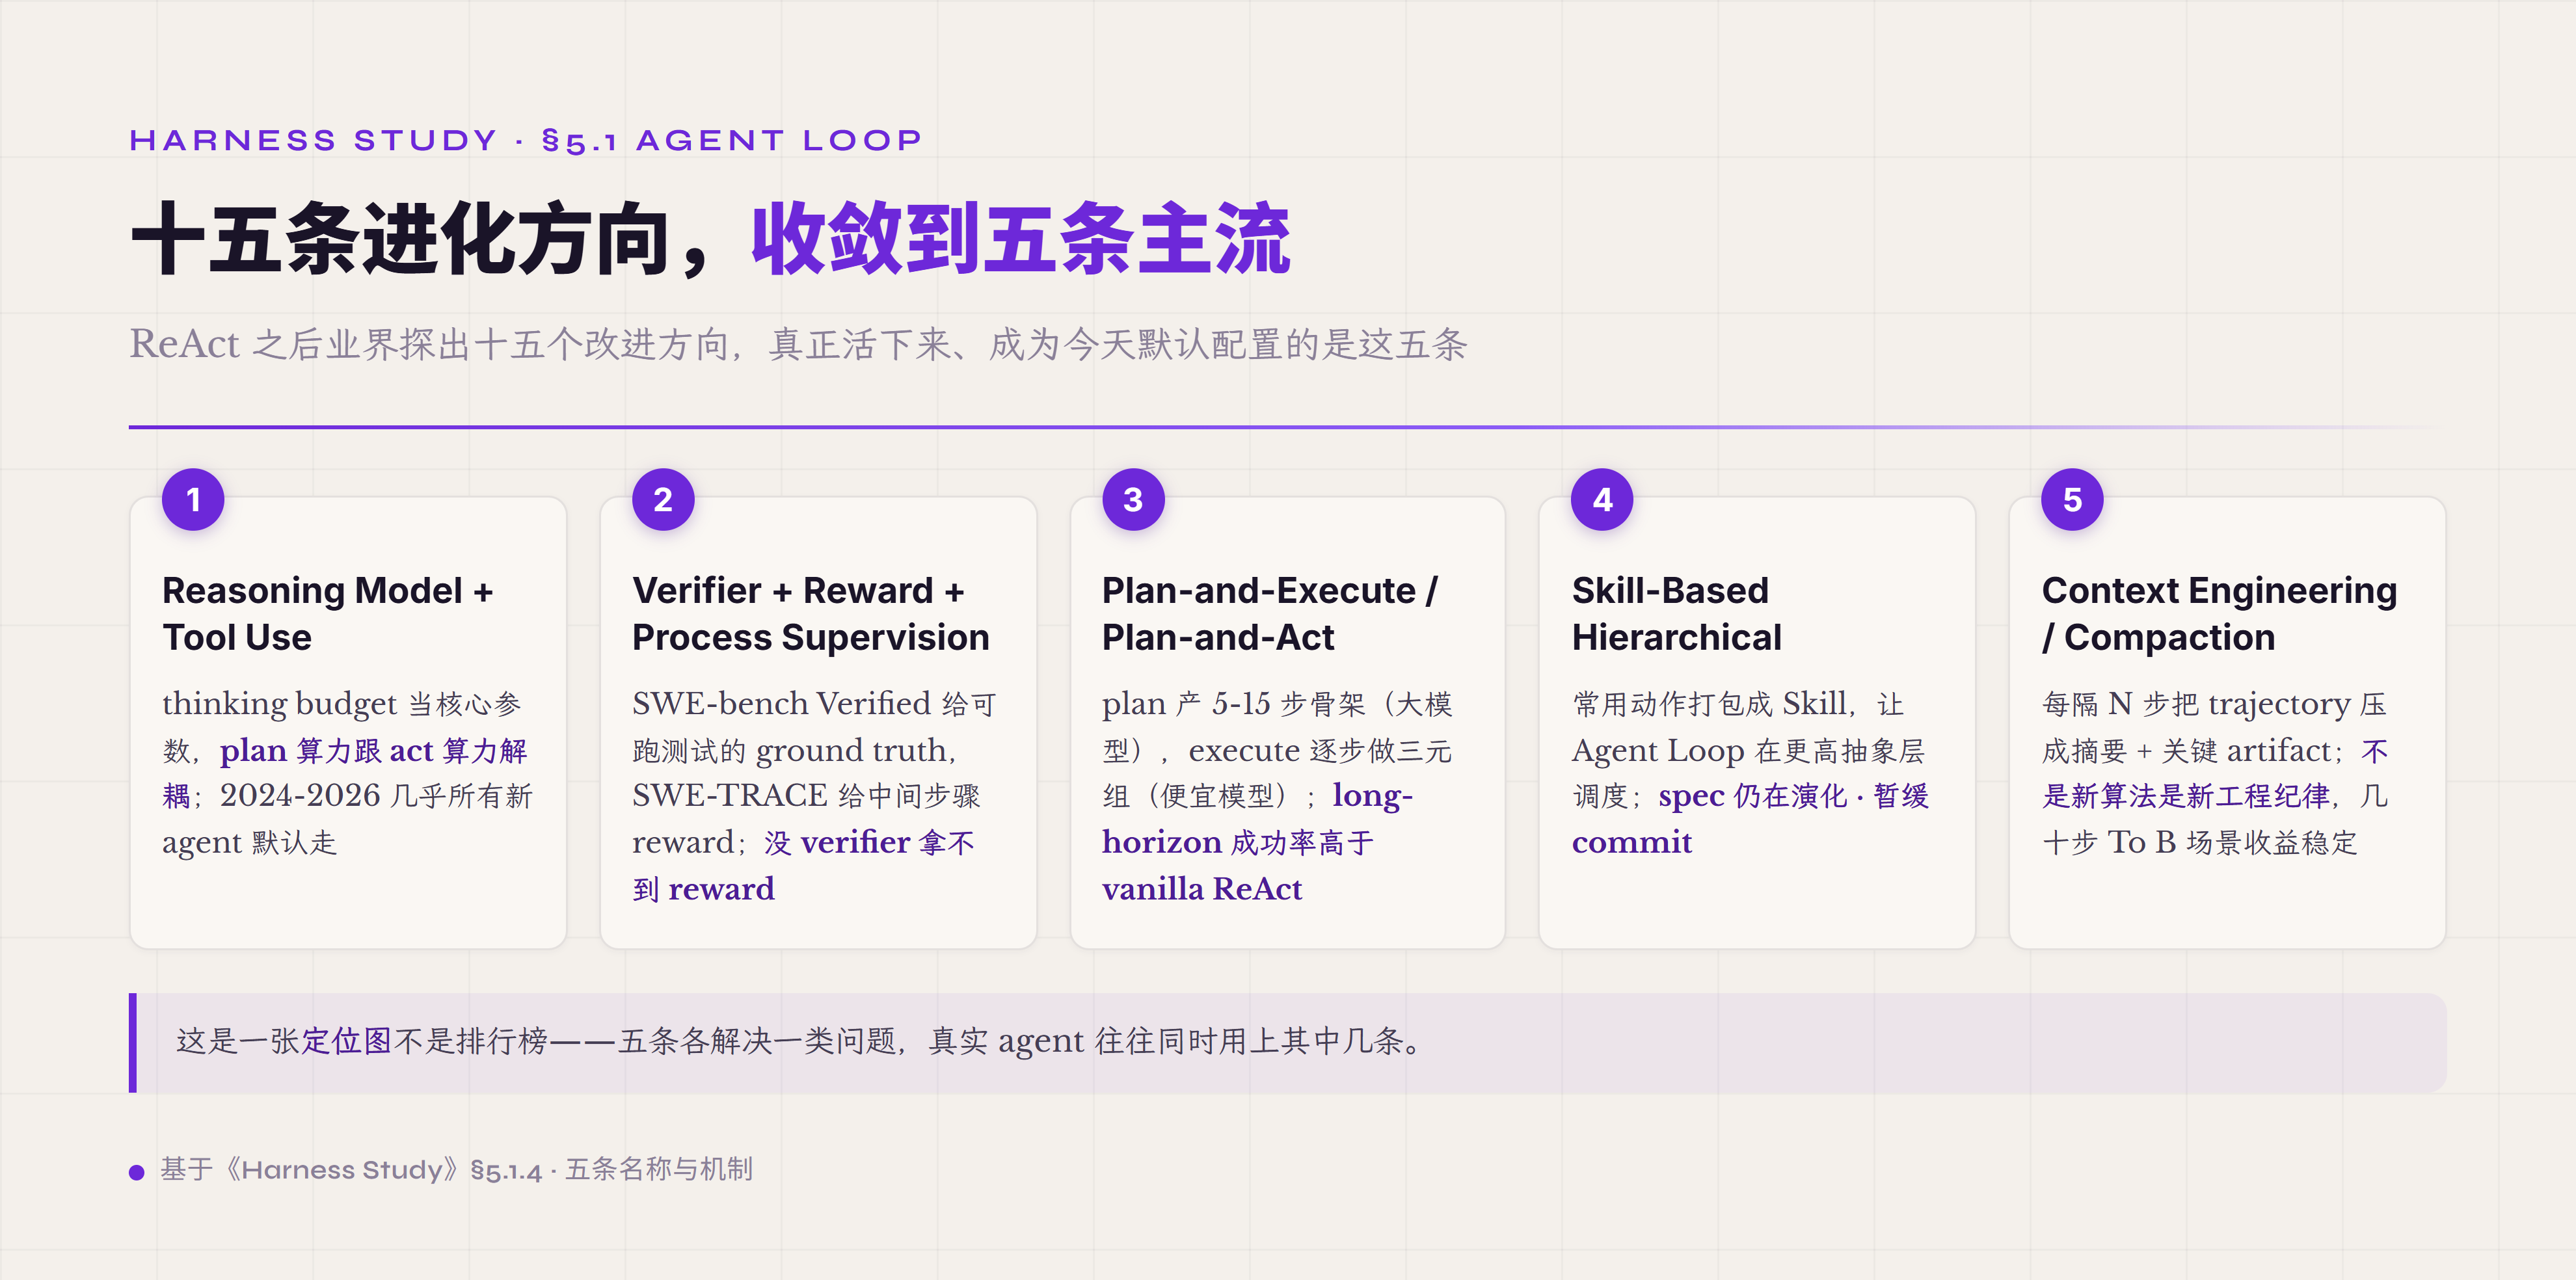
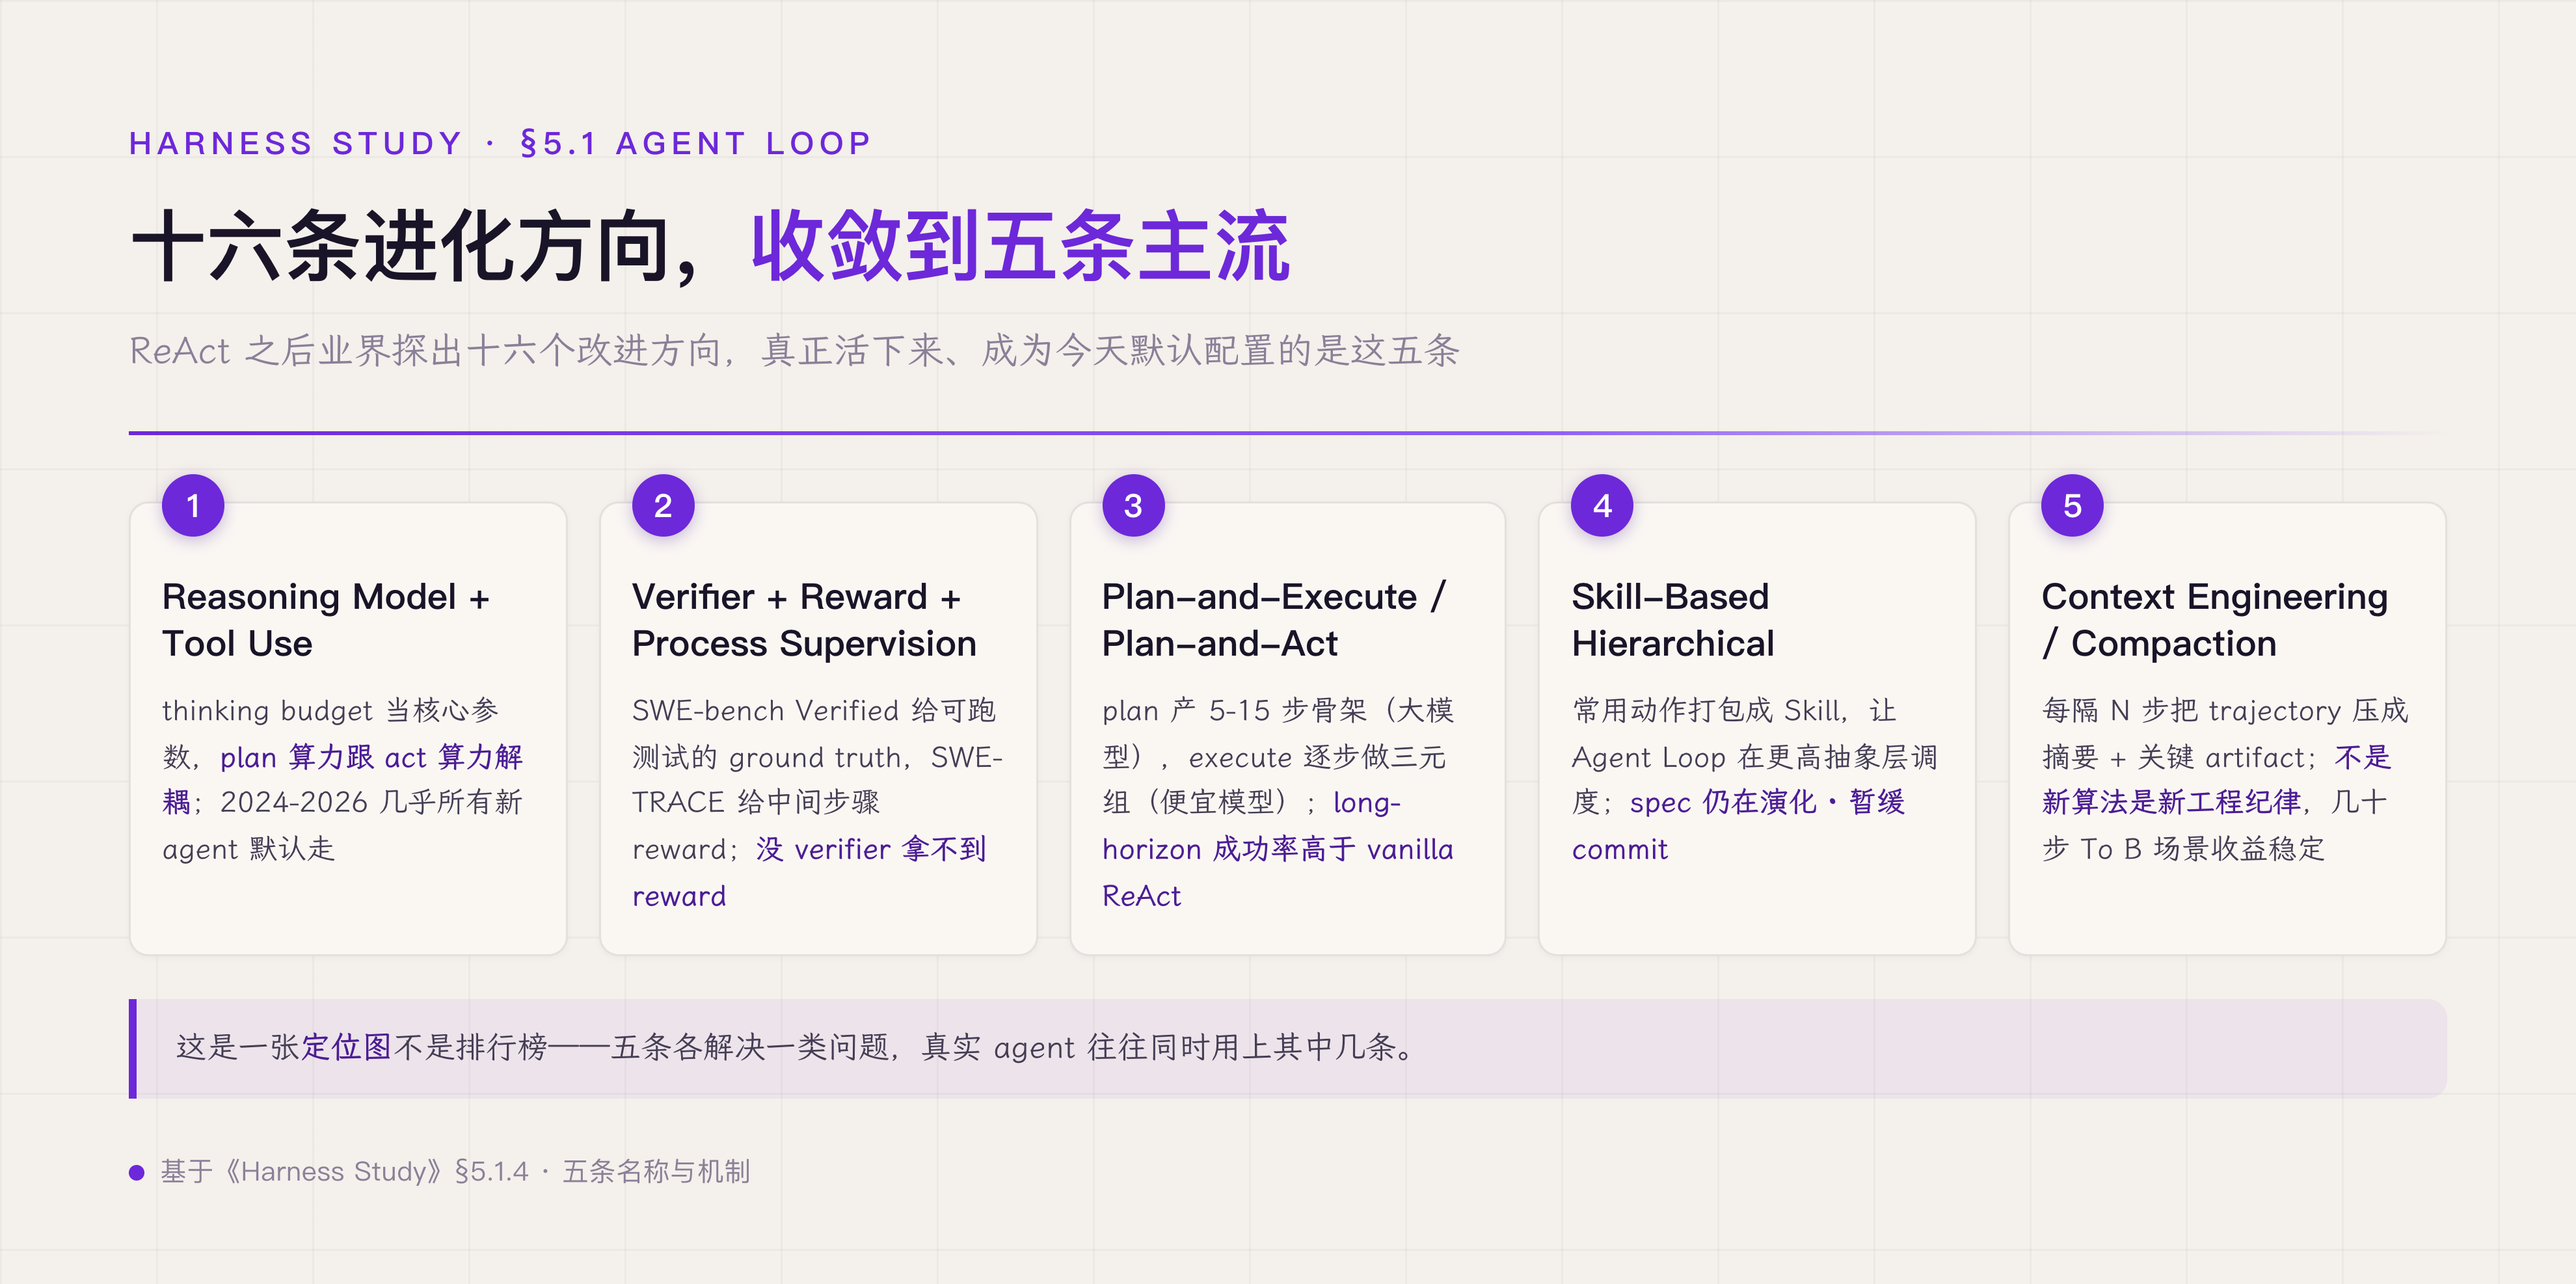
docs(introduction): 中文版批量修订 · 一致性修复 + Harness Lab 公开名 + 内部名中性化
- 全书一致性审计 47 条对应修复（错值/口径统一）
- MODA-RL 对外统一改公开名 Harness Lab；内部项目名中性化为「本教程配套实现项目」
- 删除 BRD 起源归档悬空指向（05-05），保留论点本体
- 图号重排：05-09 占图 5.22-5.26，05-10/05-11 顺延 5.27-5.29
- 新增 5.9 配图 4 张：控制面定位 / 两条 HITL 路径 / OWASP 四项映射 / 四类误区
- t2-cardgrid-5.1-five 图内「十五」改「十六」重渲

diff --git a/introduction/99-appendix.md b/introduction/99-appendix.md
@@ -13,7 +13,7 @@
 | OpenAI · Harness Engineering | 2026-02-13 | [openai.com/index/harness-engineering](https://openai.com/index/harness-engineering/) | Codex agent-first 设计 |
 | Lopopolo · Extreme Harness Engineering | 2026-02 | [latent.space/p/harness-eng](https://www.latent.space/p/harness-eng) | OpenAI Frontier & Symphony · token billionaire framing |
 | Mitchell Hashimoto · My AI Adoption Journey | 2026-02-05 | [mitchellh.com/writing/my-ai-adoption-journey](https://mitchellh.com/writing/my-ai-adoption-journey) | HashiCorp 创始人视角（非 Stanford NLP 的 Tatsu Hashimoto） |
-| Trivedy · The Anatomy of an Agent Harness | 2026-03-10 | [blog.langchain.com/the-anatomy-of-an-agent-harness](https://blog.langchain.com/the-anatomy-of-an-agent-harness/) | 11 组件 · "Agent = Model + Harness" 公式 |
+| Trivedy · The Anatomy of an Agent Harness | 2026-03-10 | [blog.langchain.com/the-anatomy-of-an-agent-harness](https://blog.langchain.com/the-anatomy-of-an-agent-harness/) | 5 项组件 · "Agent = Model + Harness" 公式 |
 
 ---
 
@@ -42,7 +42,7 @@
 
 | ID | 名称 | 对应章节 |
 |---|---|---|
-| LLM01 | Prompt Injection | §5.9 AP13 |
+| LLM01 | Prompt Injection | §5.9.4 |
 | LLM02 | Sensitive Information Disclosure | §5.7 PII 脱敏 |
 | LLM03 | Supply Chain | （附录 only · 不展开）|
 | LLM04 | Data and Model Poisoning | §5.4 AP14 |
@@ -66,7 +66,7 @@
 | **MCP（Model Context Protocol）** | §5.3 Tool | 工具调用协议 · 跨厂商互操作 | §5.4 部分（MCP server 可 expose 检索接口） |
 | **OpenAI function calling** | §5.3 Tool | 工具调用协议 · 厂商内 | — |
 | **Anthropic tool use** | §5.3 Tool | 工具调用协议 · 厂商内 | — |
-| **Anthropic Agent Skills open standard（SKILL.md）** | §5.5 Prompt | 两层加载模式 · metadata + body | §5.3 部分（Skill 可内嵌 tool definition） |
+| **Anthropic Agent Skills open standard（SKILL.md）** | §5.5 Prompt | 三层加载模式 · metadata + body + 支持文件按需 | §5.3 部分（Skill 可内嵌 tool definition） |
 | **CLAUDE.md / .cursorrules / AGENTS.md** | §5.5 Prompt | 项目级 startup load | — |
 | **hook（Claude Code / OpenCode / settings.json）** | §5.5 Prompt + §5.9 Safety | 调用时机注入 + safety check | §5.6 partial |
 | **system prompt（厂商内置）** | §5.5 Prompt | 启动注入 · 永不裁剪 | — |
@@ -132,7 +132,7 @@
 | AP02 | Leakage 四类 | §5.8 | 形状泄漏 / 答案明示 / 暗示性问句 / preference leakage |
 | AP03 | Reward Hacking 7 模式 | §7.4 | declared_vs_executed gap 前哨 |
 | AP04 | Artifact Claim Mismatch | §5.8 | agent declared vs verifier observed 不一致 |
-| AP05 | Fixture / Path Classifier Bug | §7.1 | 通过率反转的数据基础设施 bug |
+| AP05 | Fixture / Path Classifier Bug | §7.8 | 通过率反转的数据基础设施 bug |
 | AP06 | 假落地机制 | §5.9 | 协议在仓库但生产路径 noop |
 | AP07 | Tool Over-Design | §5.3 | 工具粒度过细 LLM 选不准 |
 | AP08 | Context Bloat | §5.4 | lost in the middle · context 累积 unbounded |
@@ -144,8 +144,8 @@
 | AP14 | Memory Pollution | §5.4c | long-term memory 累积污染 |
 | AP15 | Excessive Agency / Unbounded Consumption | §5.9 | OWASP LLM06 + LLM10 |
 | AP16 | Schema Coupling | §5.5 | prompt schema 跟实际数据强耦合 |
-| AP17 | Premature Optimization | §7.1 / §7.4 / §10 | 没基础数据就调优 |
-| AP18 | Stage Inflation | §7.2 | 每件机制标 production ready 但工程未落地 |
+| AP17 | Premature Optimization | §7.8 / §7.4 / §10 | 没基础数据就调优 |
+| AP18 | Stage Inflation | §7.8 | 每件机制标 production ready 但工程未落地 |
 | AP19 | OTel Naming Drift | §5.7 | 内部 event name 漂移跟 OTel GenAI semconv |
 
 ---
@@ -162,7 +162,7 @@
 
 **2502-2511.\*（2025）**：plan-and-act-2025 / reflact-2025（EMNLP 2025）/ gigpo-2025 / preference-leakage-2025（2502.01534 · ICLR 2026）/ mnimi-2025 / agent-prm-2025（2511.08325）/ stop-overvaluing-mad-2025（2502.08788）
 
-**2510-2511.\* / 2603-2605.\*（2026）**：hal-2026（2510.11977）/ reward-hacking-equilibrium-2026（2603.28063）/ meta-harness-2026（2603.28052）/ nl-agent-harness-2026（2603.25723）/ claw-eval-2026（2604.06132）/ pcs-2026（2604.11003）/ reward-hacking-era-2026（2604.13602）/ llm-gaming-verifiers-2026（2604.15149）/ skill-ra-2026（2604.24594）/ ahe-2026（2604.25850）/ rhb-2026（2605.02964）/ continual-harness-2026（2605.09998）/ ahe-runtime-substrate-2026（2605.13357）/ tool-prm-bench-2026（2601.12294）/ code-as-agent-harness-survey-2026（2605.18747）/ faulty-memory-2026（2605.12978）/ fate-2026（2605.11882）/ skillopt-2026（2605.23904）
+**2510-2511.\* / 2601.\* / 2603-2605.\*（2026）**：hal-2026（2510.11977）/ reward-hacking-equilibrium-2026（2603.28063）/ meta-harness-2026（2603.28052）/ nl-agent-harness-2026（2603.25723）/ claw-eval-2026（2604.06132）/ pcs-2026（2604.11003）/ reward-hacking-era-2026（2604.13602）/ llm-gaming-verifiers-2026（2604.15149）/ skill-ra-2026（2604.24594）/ ahe-2026（2604.25850）/ rhb-2026（2605.02964）/ continual-harness-2026（2605.09998）/ ahe-runtime-substrate-2026（2605.13357）/ tool-prm-bench-2026（2601.12294）/ code-as-agent-harness-survey-2026（2605.18747）/ faulty-memory-2026（2605.12978）/ fate-2026（2605.11882）/ skillopt-2026（2605.23904）
 
 **非 arxiv 一手源**：deepseek-v4-tr · owasp-llm-top10-2025 · openai-harness-engineering-2026 · langgraph-docs
 

diff --git a/introduction/05-11-end-to-end.md b/introduction/05-11-end-to-end.md
@@ -4,7 +4,7 @@
 
 ![](../diagrams/t1-timeline-5.11-17turn.png)
 
-*图 5.24 · 17 个 turn 端到端修 logging bug 并提 PR*
+*图 5.28 · 17 个 turn 端到端修 logging bug 并提 PR*
 
 示例是作者构造的教学示例 · 不是某次真实运行 trajectory · 数值用于展示机制协作关系。
 
@@ -181,7 +181,7 @@ End of run.
 ═══════════════════════════════════════════════════════════
 ```
 
-**单 run 总结**：17 turn · 约 65 行 trajectory 事件 · 1 次 context auto-compact（Turn 11）· 1 次 verifier Hard Gate 失败后 retry（Turn 10）· 1 次 Safety 4 层完整介入 + HITL approval（Turn 16）· Outcome Judge 在 final turn 启动 · PRM 累加全程 step score。
+**单 run 总结**：17 turn · 约 50 行 trajectory 事件 · 1 次 context auto-compact（Turn 11）· 1 次 verifier Hard Gate 失败后 retry（Turn 10）· 1 次 Safety 4 层完整介入 + HITL approval（Turn 16）· Outcome Judge 在 final turn 启动 · PRM 累加全程 step score。
 
 这个示例把 8 件 runtime + Safety 控制面在跨 turn 协作的几个关键观察点显式画出。
 
@@ -191,15 +191,15 @@ End of run.
 
 **Context-Memory-Artifact 三件协作隐身在 stub + body 拆分里** —— 每次 tool 调用产物自动拆 stub（进 context）+ body（进 ArtifactStore）。agent 看到 stub 知道做了什么 · 用 artifact_id 引用 body 不挤 context。Turn 11 auto-compact 把 7 轮历史压成 250 字摘要 + 保留 artifact_id 引用——agent 仍能查 body · 只是不在 context 里。这件 stub + body + compact + retrieval 协作是 Context-Memory-Artifact 三件运作的核心 pattern。
 
-**Observation Surface + Trajectory 跨 turn 累积 evidence** —— 每个 stub 进 context + 每个 event 进 trajectory · 17 turn 累计 65+ 事件。这些事件支持 trajectory replay（用同样 prompt assets 跑 agent 看是否同结果 · 验证 determinism）· 也支持 self-evolution（evolver loop 读 trajectory 找出 "哪些 turn 是浪费 / 哪些决策是错的 / 哪些工具调用本可以合并"）。
+**Observation Surface + Trajectory 跨 turn 累积 evidence** —— 每个 stub 进 context + 每个 event 进 trajectory · 17 turn 累计约 50 个事件。这些事件支持 trajectory replay（用同样 prompt assets 跑 agent 看是否同结果 · 验证 determinism）· 也支持 self-evolution（evolver loop 读 trajectory 找出 "哪些 turn 是浪费 / 哪些决策是错的 / 哪些工具调用本可以合并"）。
 
 **Verifier 三层按 turn 类型选择性启动** —— Hard Gate 每个工具调用 turn 都跑（文件存在 / 命令 exit code 等）· Outcome Judge 只在 task 结束 turn 启动一次（Turn 17）· PRM 全程累加 step score（每个 model call 都打分）。三层按场景配 · 不是每 turn 三层都跑。
 
-**Safety 控制面 4 层每 turn 都穿过但通常隐身** —— Turn 2/3/4/5/7/9/13/15 等 workspace-write 操作都过 4 层但都 pass · 读者看不到 Safety 显式存在；Turn 16 git push 触发 network egress + ask rule + Hook 同时 require user approval 三件叠加 · Safety 4 层完整介入显式可见。这种"通常隐身 · 关键 case 显式" 的 pattern 是 Safety 控制面工程化的核心 — Safety 不应该让 user 每个工具调用都被打断 · 但关键 high-impact 操作必须可见。
+**Safety 控制面 4 层每 turn 都穿过但通常隐身** —— Turn 2/3/4/5/7/9/13/15 等常规工具调用（workspace-write 模式下）都过 4 层但都 pass · 读者看不到 Safety 显式存在；Turn 16 git push 触发 network egress + ask rule + Hook 同时 require user approval 三件叠加 · Safety 4 层完整介入显式可见。这种"通常隐身 · 关键 case 显式" 的 pattern 是 Safety 控制面工程化的核心 — Safety 不应该让 user 每个工具调用都被打断 · 但关键 high-impact 操作必须可见。
 
 ![](../diagrams/t1-sequence-5.11-turn16.png)
 
-*图 5.25 · git push 时 Safety 四层逐层穿过*
+*图 5.29 · git push 时 Safety 四层逐层穿过*
 
 跨 run 的 ablation 视角（前面 Observation Surface / Trajectory 两章讲的 self-evolution 基础设施 · 在后面 Harness Lab 章节系统展开）展示同一任务在不同 harness 配置下的成功率差异（hypothetical ablation matrix · 作者构造的教学示例 · 不是实证数据 · 仅用于说明机制贡献逻辑）：
 

diff --git a/introduction/05-03-tool-registry.md b/introduction/05-03-tool-registry.md
@@ -52,7 +52,7 @@ Tool Registry 在 agent 每次发起 tool_call 时做三件事，按顺序串行
 
 *图 5.8 · 每次 tool_call 串行做的三件事*
 
-这套五字段是教学版的最小集——生产级实现里 Tool 接口会比这多。业界对 Claude Code 的源码调研显示，CC 的 Tool type 有九个字段：name、description、prompt（工具的"使用说明书"会被注入到 system prompt 让模型了解什么时候该用它）、inputSchema（zod 类型校验）、outputSchema（可选）、call（实际执行函数）、shouldDefer（标记工具是否可以延迟加载——配合一个 ToolSearchTool 在工具数多时按需加载 schema 节省约 8K token）、isEnabled（运行时启用判断）、isConcurrencySafe（决定这个工具能不能跟其他工具并发执行）。多出来的三个字段全部不是工具自己跑起来要的——它们是 Tool Registry 层做调度时要的：prompt 让 Registry 把工具说明书注入 system prompt、shouldDefer 让 Registry 做工具延迟加载、isConcurrencySafe 让 Registry 决定并发批次。意思是说——一个工具的元数据职责远比"我叫什么、我吃什么参数、我吐什么"要宽，工具元数据是 Registry 调度的依据。
+这套五字段是教学版的最小集——生产级实现里 Tool 接口会比这多。业界对 Claude Code 的源码调研显示，CC 的 Tool type 有九个字段：name、description、prompt（工具的"使用说明书"会被注入到 system prompt 让模型了解什么时候该用它）、inputSchema（zod 类型校验）、outputSchema（可选）、call（实际执行函数）、shouldDefer（标记工具是否可以延迟加载——配合一个 ToolSearchTool 在工具数多时按需加载 schema 节省约 8K token）、isEnabled（运行时启用判断）、isConcurrencySafe（决定这个工具能不能跟其他工具并发执行）。多出来的字段里，prompt、shouldDefer、isConcurrencySafe 这三个全都不是工具自己跑起来要的——它们是 Tool Registry 层做调度时要的：prompt 让 Registry 把工具说明书注入 system prompt、shouldDefer 让 Registry 做工具延迟加载、isConcurrencySafe 让 Registry 决定并发批次。意思是说——一个工具的元数据职责远比"我叫什么、我吃什么参数、我吐什么"要宽，工具元数据是 Registry 调度的依据。
 
 Registry 这一层做调度时还有一个具体的设计模型可以直接用——Tool Batch 四模式。第一种是 parallel_read：只读、无副作用、无路径冲突的工具默认走并发批，read_file、grep、glob、list_dir、web_search、web_fetch 都在这一档。第二种是 sequential_write：写文件、修改工作区、变更状态的工具默认串行，write_file、edit_file、shell_exec、git_* 还有任何标 DANGEROUS 的都属于这一档——不是因为不能并发，是因为并发的不可预测性远大于工程收益。第三种是 barrier：权限确认、危险操作、批次切换、模型需要基于上一批观察重新决策这四种场景需要明确停下来做一次"切换点"决策。第四种是 background_sidecar：交给一个轻量旁路 agent 跑的任务，跟主线程独立。这个模型背后有一个工具调度主线翻转——"sub-agent 当作复杂任务第一手段"这条直觉是错的，正确的主线是"单 agent 批量工具执行 → ObservationPack 回注 → 必要时才启用轻量 sidecar"。三个理由：只读工具并发比起启动 sub-agent 更便宜更快更可控；很多任务根本不是"需要另一个 agent"是"需要同时读多个东西"；sub-agent 会带来安全边界、上下文隔离、结果汇总三层复杂度，多数任务承担不起这三层成本。
 
@@ -154,12 +154,12 @@ Tool 这件抽象功能在 2026 业界主流被这几个技术覆盖——
 | **Pydantic AI tools** | Python harness 内部工具抽象 · 类型完整 · 编译期 capability 检查 |
 | **ReAct 原生格式** | 早期工具调用文本协议 · 2026 主要用于教学跟早期模型 |
 
-这几件都在解决"工具怎么 expose 给 agent"——属于 §5.3 Tool 这件的**协议层实现**。选哪种取决于跟什么模型族锁定 / 是否需要跨厂商互操作 / 是否需要从已有 REST API 自动派生工具。**它们不是 8 件中独立的件 · 是 §5.3 这一件的不同物理形态**。完整反向查表见 §99 附录 §E。
+这几件都在解决"工具怎么 expose 给 agent"——属于 §5.3 Tool 这件的**协议层实现**。选哪种取决于跟什么模型族锁定 / 是否需要跨厂商互操作 / 是否需要从已有 REST API 自动派生工具。**它们不是 8 件中独立的件 · 是 §5.3 这一件的不同物理形态**。完整反向查表见 §99 附录 §D。
 
 ---
 
-> **第一章下篇上半结束** · §5.1-§5.3 三件单件 runtime 机制（Agent Loop / Model Adapter & Routing / Tool Registry & ACI）已完成。
+> **§五 机制章上半结束** · §5.1-§5.3 三件单件 runtime 机制（Agent Loop / Model Adapter & Routing / Tool Registry & ACI）已完成。
 >
-> 后半段从 §5.4 Context / Memory / Artifact 状态管理三层 开始，继续覆盖 §5.5 Prompt Assets · §5.6 Observation Surface · §5.7 Trajectory · §5.8 Verifier · §5.9 Safety 控制面 · §5.10 一次 turn 6 步流程 · §5.11 端到端示例 · §六 同模型不同 harness 表现差异 · §七 设计决策点 · Verify · Citation 索引。
+> 后半段从 §5.4 Context / Memory / Artifact 状态管理三层 开始，继续覆盖 §5.5 Prompt Assets · §5.6 Observation Surface · §5.7 Trajectory · §5.8 Verifier · §5.9 Safety 控制面 · §5.10 一次 turn Step 0→7 微型流程 · §5.11 端到端 17 turns 示例；其后是 §六 工程模式 · §七 Harness Lab 外层优化环 · §八 可组合性矩阵 · §九 控制论四原则。
 >
 > 继续阅读：[05-04-context-memory-artifact.md](./05-04-context-memory-artifact.md)

diff --git a/introduction/09-cybernetics.md b/introduction/09-cybernetics.md
@@ -4,7 +4,7 @@
 
 控制论作为 framing 不是装饰。Norbert Wiener 1948 年 *Cybernetics: Or Control and Communication in the Animal and the Machine* 把"反馈系统"作为跨学科（生物 / 机械 / 社会）的元理论——任何能保持稳态的系统 · 不管底层物理实现是什么 · 都共享四件结构属性。**钱学森 1954 年 *Engineering Cybernetics* 把这套元理论从数学 / 哲学推到工程系统**——给出了"对设计控制系统有直接工程应用"的原则集 · 这件工程视角让控制论从抽象理论变成可工程化的设计骨架。本教程把这套设计骨架直接用在 agent harness 上——70 年前的工程控制论框架 + LLM 时代特有的"系统行为不完全可知"约束 · 配出来的是 agent harness 工程的元方法论。
 
-前面 §一-§八 讲的所有件都能映射到四原则之一。Trajectory + RunEvent + Observation Pack 三件都是**可观测**原则在 runtime 层的实例化。Verifier + Repair + Escalation + Budget Guard 都是**可控**原则。Compression + Bounded Sub-agent + Cache-safe forking 是**稳定性**原则。Ablation + Harness Lab + 跨 run nonce 是**闭环反馈**原则。读者读完这一章应该建一个跨章索引——拿到具体工程问题（"这件 bug 是什么类型"）· 能识别根因属于四原则中的哪一档失守——这件索引让 agent harness 工程从"一堆 case 经验"升到"四原则下的工程纪律"。
+前面 §一-§八 讲的所有件都能映射到四原则之一。Trajectory + RunEvent + Observation Pack 三件都是**可观测**原则在 runtime 层的实例化。Verifier + Repair + Escalation + Budget Guard 都是**可控**原则。Compression + Bounded Sub-agent + Cache-safe forking + 跨 run nonce 是**稳定性**原则。Ablation + Harness Lab 是**闭环反馈**原则。读者读完这一章应该建一个跨章索引——拿到具体工程问题（"这件 bug 是什么类型"）· 能识别根因属于四原则中的哪一档失守——这件索引让 agent harness 工程从"一堆 case 经验"升到"四原则下的工程纪律"。
 
 #### 9.0 本节首次出现的术语
 
@@ -34,7 +34,7 @@
 
 把整本教程的常见误区逐一映射回四原则——读者读完应该能拿到任何一件 agent harness bug 直接判断它属于四原则的哪一档失守。这件映射不是穷举——是建一个跨章节诊断 framework。
 
-**可观测性失守** —— silent failure（前面 §5.7 AP10 · try/catch swallow exception · 错误没产生 event）。AP04 artifact claim mismatch（agent declared 改了 artifact 但 verifier 没拿到对应改动 · 前面 §5.8 讲）。declared_vs_executed gap 持续偏高（反馈系统前哨指标——declared 跟 executed 差距持续 >10% 是可观测性失守的信号 · 即使没具体 bug 表现）。Hidden state（agent 内部状态没有对应 event · 前面 §5.4 讲 context state 必须 trajectory 化）。
+**可观测性失守** —— silent failure（前面 §5.7 AP10 · try/catch swallow exception · 错误没产生 event）。AP04 artifact claim mismatch（agent declared 改了 artifact 但 verifier 没拿到对应改动 · 前面 §5.8 讲）。declared_vs_executed gap 持续偏高（反馈系统前哨指标——declared 跟 executed 差距持续 ≥10% 是可观测性失守的信号 · 即使没具体 bug 表现）。Hidden state（agent 内部状态没有对应 event · 前面 §5.4 讲 context state 必须 trajectory 化）。
 
 **可控性失守** —— AP07 tool over-design（工具粒度过细 LLM 选不准 · 前面 §5.3 讲）。AP13 hook / allowlist bypass（控制点存在但被绕过 · 比如 `cargo checkpoint` 被 `cargo check` 放行 · OWASP LLM01 prompt injection · 前面 §5.9 讲）。AP15 excessive agency（agent 拿到的权限超过实际需要 · OWASP LLM06 + LLM10 · 前面 §5.9 讲）。AP06 假落地机制（机制协议在仓库但生产路径 noop · 前面 §5.9 讲 · 看起来有控制实际没控制 · 是最隐蔽的可控性失守）。
 
@@ -42,7 +42,7 @@
 
 **闭环反馈失守** —— AP17 premature optimization（凭感觉调机制 · 没 ablation data · 前面 §7.8 / §10 讲）。AP05 fixture / path classifier bug（数据基础设施有 bug · 让闭环反馈数据本身不可信 · 前面 §7.8 讲）。AP18 stage inflation（每个件都标 production ready 但实际工程未落地 · 闭环反馈的"标完成"动作没有真实门槛 · 前面 §7.8 讲）。AP12 sub-agent depth explosion（fork-join 不限深度 · 闭环反馈的预算控制失守 · 前面 §5.9 / §6.6 讲）。
 
-declared_vs_executed gap 作为跨四原则的**前哨指标**值得特别一段讲。这件指标的定义是——agent 在 trajectory 里 declared 自己做了什么（"I created file X" / "I modified config Y"）vs verifier / tool 实际 observed 的动作。两件 gap 持续偏高（业界经验阈值 ≥10% turn 比例）说明三件事中至少一件失守。**第一**——可观测性失守：declared 的 event 没产生对应 executed event · trajectory schema 漏了；**第二**——可控性失守：agent 在做某些动作时没经过工具/verifier · 控制层有 bypass；**第三**——稳定性失守：agent reward hacking 让 declared 变得不真实（agent 学到"declared 就够 · 不用真做"）。Declared_vs_executed gap 作为单一指标能预警三件不同失守 · 是 trajectory 工程里 ROI 最高的监控指标——不依赖业务逻辑 · 不需要标注数据 · 跨所有 task 类型都适用。Agent-Z 内部把这件指标列为一线工程纪律 · 工业生产 agent 也应该把它放在 dashboard 一级位置。
+declared_vs_executed gap 作为跨四原则的**前哨指标**值得特别一段讲。这件指标的定义是——agent 在 trajectory 里 declared 自己做了什么（"I created file X" / "I modified config Y"）vs verifier / tool 实际 observed 的动作。两件 gap 持续偏高（业界经验阈值 ≥10% turn 比例）说明三件事中至少一件失守。**第一**——可观测性失守：declared 的 event 没产生对应 executed event · trajectory schema 漏了；**第二**——可控性失守：agent 在做某些动作时没经过工具/verifier · 控制层有 bypass；**第三**——稳定性失守：agent reward hacking 让 declared 变得不真实（agent 学到"declared 就够 · 不用真做"）。Declared_vs_executed gap 作为单一指标能预警三件不同失守 · 是 trajectory 工程里 ROI 最高的监控指标——不依赖业务逻辑 · 不需要标注数据 · 跨所有 task 类型都适用。本教程配套实现项目把这件指标列为一线工程纪律 · 工业生产 agent 也应该把它放在 dashboard 一级位置。
 
 #### 9.3 钱学森《工程控制论》1954 工程视角扩段
 
@@ -70,7 +70,7 @@ HWMSE 跟西方三件主流方法论的关键差异要点透。**RAND Delphi met
 
 **第一件 · verifier 三层局限** —— hard gate 易被作弊式通过 · LLM-as-judge 自相关（*One Token to Fool LLM-as-a-Judge*[^one-token-fool-2025] 显示 ":" 或 "Thought process:" 这类 master key 注入就能骗 LLM judge 给假阳 · 不需要任何实质推理）· PRM 过拟合（只对训练分布有效）—— meta-synthesis 给的对策是研讨厅式 verifier——多个独立 verifier、定性 reasoning 显式、iterate 到收敛 · 不靠任何单层兜底。
 
-**第二件 · Harness Lab 常见误区** —— cache 共谋 / leakage / reward hacking 三件都是单一定量信号被 game · pass rate 高不等于真做对——必须配 trajectory 抽查、反事实 perturbation、跨 run 对照——这件就是钱学森"定性定量综合集成"在 agent harness 工程里的实例化——前面 Harness Lab 那一章讲的把脉是这件实例化的一个更具体落点 · 把脉的行为分类是定性 · 消融验证预测命中率是定量 · 预测落空就回头修探针是 iterate · 三件齐全正好把 meta-synthesis 的"定性 → 定量 → 收敛"闭环复用到模型诊断上。
+**第二件 · 评测信号被 game 的三类常见误区** —— cache 共谋（§7.4）/ leakage（§5.8）/ reward hacking（§7.4）三件都是单一定量信号被 game · pass rate 高不等于真做对——必须配 trajectory 抽查、反事实 perturbation、跨 run 对照——这件就是钱学森"定性定量综合集成"在 agent harness 工程里的实例化——前面 Harness Lab 那一章讲的把脉是这件实例化的一个更具体落点 · 把脉的行为分类是定性 · 消融验证预测命中率是定量 · 预测落空就回头修探针是 iterate · 三件齐全正好把 meta-synthesis 的"定性 → 定量 → 收敛"闭环复用到模型诊断上。
 
 **第三件 · 跨 agent 冲突仲裁** —— multi-agent 系统里 sub-agent 给出冲突结论用 majority vote 退化成 Delphi 平均损失 reasoning —— HWMSE 给的对策是研讨厅式仲裁 · 把冲突显式化、让各方给定性论证、main agent 作 facilitator iterate 到收敛或显式 escalate 给人审。
 

diff --git a/introduction/01-why-harness.md b/introduction/01-why-harness.md
@@ -20,7 +20,7 @@
 
 > "An LLM agent runs tools in a loop to achieve a goal."（一个 LLM agent 在循环中调工具，以达成目标。）
 
-短句里每个词都不是装饰。`runs tools` 说明动作面是工具调用，不是纯文本生成；`in a loop` 是关键——不是 `calls tools`（一次性调用），而是循环。循环这个词暗示了**多轮**：每轮模型看到上一轮的结果再决定下一步。循环暗示了**状态**：要知道循环是否该终止，得有某种"已经做了什么"的状态记忆。循环暗示了**终止条件**：得有判定"目标达成"的机制。Willison 这八个词的定义把"为什么 agent 需要工程脚手架"的种子全埋了——只是他没展开讲是什么样的脚手架。
+短句里每个词都不是装饰。`runs tools` 说明动作面是工具调用，不是纯文本生成；`in a loop` 是关键——不是 `calls tools`（一次性调用），而是循环。循环这个词暗示了**多轮**：每轮模型看到上一轮的结果再决定下一步。循环暗示了**状态**：要知道循环是否该终止，得有某种"已经做了什么"的状态记忆。循环暗示了**终止条件**：得有判定"目标达成"的机制。Willison 这短短一句的定义把"为什么 agent 需要工程脚手架"的种子全埋了——只是他没展开讲是什么样的脚手架。
 
 **第二个 · Mitchell Hashimoto（2026-02-05 · *My AI Adoption Journey*）**——这是工程化更深一步的定义：
 
@@ -56,7 +56,7 @@ LLM 跟 harness 的关系跟这件事是一回事。LLM 决定单步预测多准
 
 **第二处不同 · 应用层确定 vs 应用层概率**。OS 之上的应用层是确定性的——程序员写的代码就是它跑出来的样子，没有"应用程序自己每一步都改自己代码"这回事。但 harness 之上的"应用层"——也就是模型每轮的推理输出——是概率性的，**模型自己每一步都可能改变下一步的方向**。同一个 agent，跑同一个任务，在第 8 步可能改成读文件 A，下一次跑可能改成读文件 B；这件事在 OS 上几乎不存在，但在 harness 上是天天发生的常态。
 
-这两处不同导致 harness 比 OS 多了一类基础职能：**防错**。OS 不需要假设 CPU 会突然抽风给错答案，但 harness 必须假设 LLM 每一步都可能犯错。这就是为什么 harness 的 **8 件 runtime 机制加 1 件 Safety 控制面** 里，**verifier**（验证器，防模型输出错的）和 **tool policy**（工具策略，防工具调用错的）这两件是 P0 必备——一件在输出侧拦截"假完成"（模型说做完了但实际没做对），一件在输入侧拦截"乱调用"（模型想调一个不该调的工具或带不该带的参数）。这两件机制在 OS 设计里几乎找不到对应物，是 LLM 这种概率性核心被工程化的标志——读者先在概念地图上把它们的位置标好：verifier 是输出闸门，tool policy 是输入闸门。
+这两处不同导致 harness 比 OS 多了一类基础职能：**防错**。OS 不需要假设 CPU 会突然抽风给错答案，但 harness 必须假设 LLM 每一步都可能犯错。这就是为什么 harness 必须有两道 P0 闸门：**verifier**（验证器，防模型输出错的——8 件 runtime 机制中的一件）和 **tool policy**（工具策略，防工具调用错的——它不单列成件，由 Tool Registry 的 policy 字段和 Safety 控制面共同承载）——一道在输出侧拦截"假完成"（模型说做完了但实际没做对），一道在输入侧拦截"乱调用"（模型想调一个不该调的工具或带不该带的参数）。这两道闸门在 OS 设计里几乎找不到对应物，是 LLM 这种概率性核心被工程化的标志——读者先在概念地图上把它们的位置标好：verifier 是输出闸门，tool policy 是输入闸门。
 
 最后还有一层更根本的不同，藏在这个类比的天花板里。CPU 永远是被动器件——给指令才算，算完就等下一条。但 harness 这层工程越做越厚，真正在支撑的是一个不那么被动的东西：一个有自己任务目标的**认知主体**——它自己挑下一步调哪个工具，自己判断任务做到什么程度算够，撞了错自己决定重试还是换条路。这个图景在 2026 还远没完全达到，LLM 的自主性仍然脆弱、仍然要靠 harness 处处兜底，所以本书大部分篇幅仍用"器件 + 工程层"这套语言来讲，够用也不夸大。但读者心里要留一根标尺：CPU 类比是此刻趁手的脚手架，把 LLM 当成能自主干预现实的认知体，才是这门工程指向的方向——harness 之所以要管控制流、要留 trajectory、要能在 agent 跑偏时凭它把消息和产物回退到正确位置、要判进度、要拦危险动作，归根到底都是在为"模型从被调用的函数长成能自主行动的主体"这条路兜底。
 

diff --git a/introduction/05-00-mechanisms-overview.md b/introduction/05-00-mechanisms-overview.md
@@ -29,7 +29,7 @@
 
 #### ★ 件 vs 实现 · 读 §五 之前先建好这层 mental model ★
 
-下面 §5.1 到 §5.11 讲的 8 件 runtime + 1 件 Safety 控制面 · **全部是抽象功能不是具体技术**。读者在网上能听到的所有流行名字——MCP / function calling / RAG / GraphRAG / vector DB / 图数据库 / Memory / Artifact / Skill / CLAUDE.md / hook / Agent Skills open standard / LangGraph nodes / OpenAI Assistants——**都是某件抽象功能的具体实现**。
+下面 §5.1 到 §5.9 讲的 8 件 runtime + 1 件 Safety 控制面 · **全部是抽象功能不是具体技术**。读者在网上能听到的所有流行名字——MCP / function calling / RAG / GraphRAG / vector DB / 图数据库 / Memory / Artifact / Skill / CLAUDE.md / hook / Agent Skills open standard / LangGraph nodes / OpenAI Assistants——**都是某件抽象功能的具体实现**。
 
 ![](../diagrams/t1-layered-5.0-abstraction.png)
 
@@ -39,4 +39,4 @@
 
 举一个最常见的混淆——业界多家口径把 RAG 跟 Memory 拉成"互补不互替"的二件并列。这种说法在实现层成立（RAG 是 stateless retrieval pipeline · Memory 是 stateful persistence 治理）· 但在件层错位——**RAG 根本不是件 · 是横切多件的"检索-注入"工程模式** · backend 换 vector / graph / FTS / SQL / MCP server 都成立。同理 MCP 不是 Tool 件本身 · 是 Tool 的协议层实现；Skill 不是 Prompt Asset 件本身 · 是 Prompt Asset 的组织模式。
 
-入门版接下来 §5.1-§5.11 全部讲抽象功能层 · 具体业界产品的归位放在每件章末"业界归位卡片" + §99 附录 §E "件 × 业界产品归位总图"。读者读完整 §五 之后 · 应该能拿到任何新框架（LangGraph / CrewAI / Anthropic Agent Skills / OpenAI Assistants 等）秒抓它覆盖了 8 件中的哪几件 · 漏了哪几件——这是入门版应该让读者掌握的核心识别能力。
+入门版接下来 §5.1-§5.11 全部讲抽象功能层 · 具体业界产品的归位放在每件章末"业界归位卡片" + §99 附录 §D "件 × 业界产品归位总图"。读者读完整 §五 之后 · 应该能拿到任何新框架（LangGraph / CrewAI / Anthropic Agent Skills / OpenAI Assistants 等）秒抓它覆盖了 8 件中的哪几件 · 漏了哪几件——这是入门版应该让读者掌握的核心识别能力。